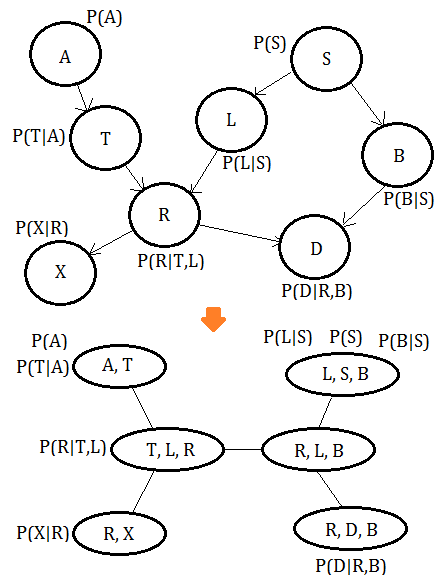
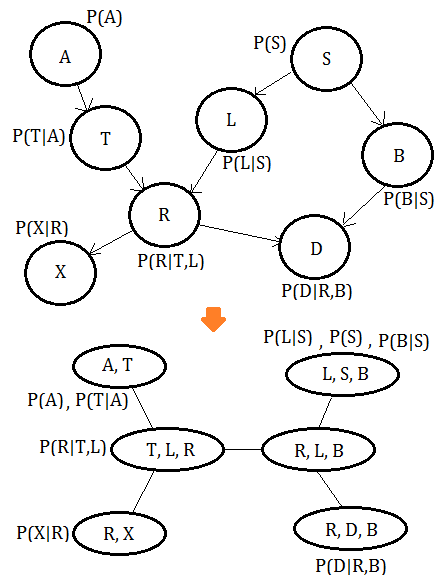
update _posts/2018-09-25-bayesian-ml-progagation-cliuque-tree.md with clique tree for ve, 3

Changed region(s): [[0.0291, 0.552, 0.2908, 0.7053]]

diff --git a/_posts/2018-09-25-bayesian-ml-progagation-cliuque-tree.md b/_posts/2018-09-25-bayesian-ml-progagation-cliuque-tree.md
@@ -37,8 +37,9 @@ The introduction of <font color="Red">clique tree</font> algorithm aims at <font
 ><font color="DeepSkyBlue">[2]</font>
 ><font color="OrangeRed">Instantiate the variable with the observed evidence</font>  
 >Using the same <font color="Red">Bayesian network</font>, we denote the observed evidence as $E$, <font color="OrangeRed">in the real world, we can have observation of multiple variables at the same time</font>.  
->Suppose we have observed $A=y$ and $X=y$, to instantiate the clique tree, we associate the independence probability function containing $A$ and $X$ with the observed value $y$.  
 >
+>Suppose we have observed $A=y$ and $X=y$, to instantiate the clique tree, we associate the independence probability function containing $A$ and $X$ with the observed value $y$.  
+![]({{ site.github.repo }}{{ site.baseurl }}/images/pic/2018-09-25-bayesian-ml-progagation-cliuque-tree-ve-step-2.png "step 2")
 
 ### Addendum
 >&#10112;[Introduction to Bayesian Networks, Lecture 5: Inference as Message Propagation, Nevin L. Zhang, lzhang@cse.ust.hk, Department of Computer Science and Engineering, Hong Kong University of Science and Technology, Fall 2008](http://www.cse.ust.hk/bnbook/pdf/l05.h.pdf)  
